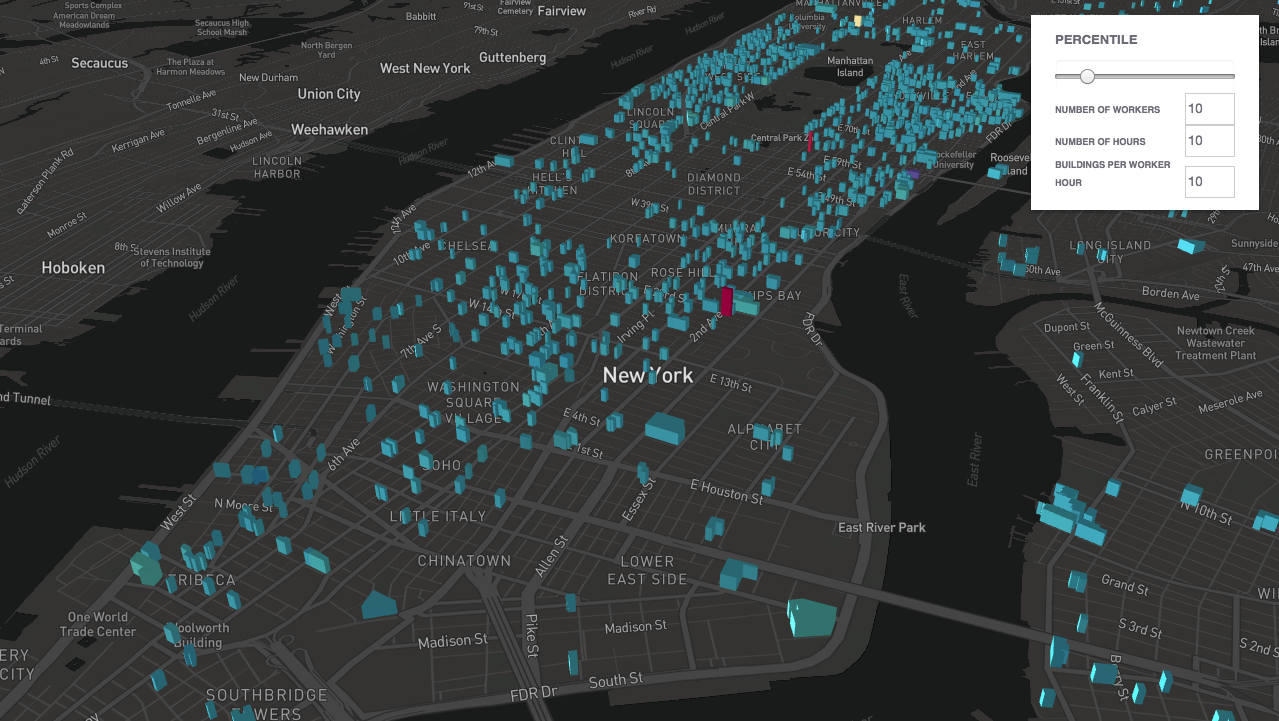
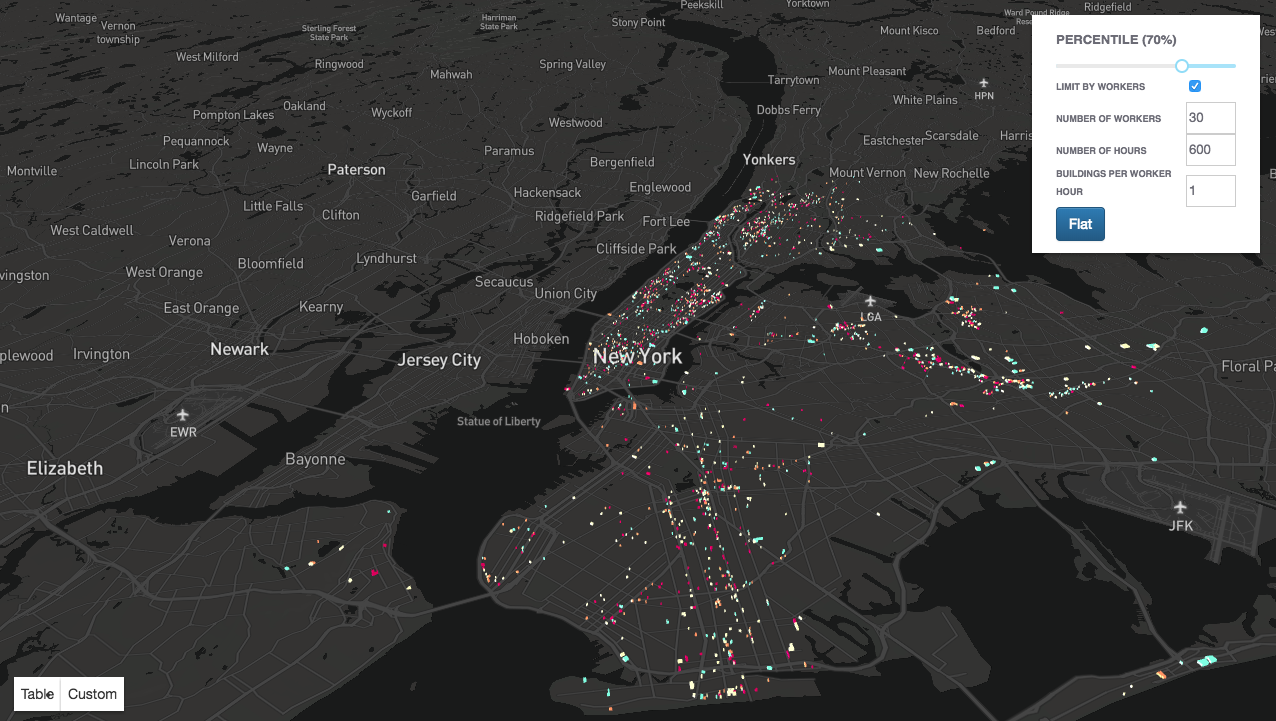
adding vis readme

diff --git a/deck/README.md b/deck/README.md
@@ -1,13 +1,58 @@
-This is a minimal standalone version of the GeoJsonLayer example
-on [deck.gl](http://deck.gl) website.
+# Energy Benchmarking Operational Tool
+**Authors**: Ben Steers, Te Du, Ian Xiao
 
-### Usage
-Copy the content of this folder to your project. Run
-```
+This tool was created as part of a final project for Civic Analytics and Intelligence at NYU CUSP, under the advisement of Constantine Kontokosta. It aims to provide a practical outlet for the visualization and use of LL84 data and the benchmarking results from our final project.
+
+The prototype tool aims to serve the needs of two populations:
+* Operations managers
+* Building owners
+
+![Screenshot of Dashboard](dashboard.png)
+
+## Operational Management
+Operational managers are often tasked with identifying the worst performing buildings in terms of energy usage efficiency, whether it be electricity, water, or fuel usage. Their criteria for selection is not fixed, so to accomodate varying use cases, a slider is provided that allows users to filter the displayed buildings by only showing the top percentile of worst performing buildings. So for example, if the slider is set to a value of 80%, it will only show the top 20% of buildings based on their EER score. The other constraint that operational managers may have is based on resource management. They can only address a certain number of buildings based on the number of workers they have, the amount of time they are looking over, and the rate at which their workers can inspect a single building. To accomodate this, filters are provided that allow building owners to specify the number of workers, the number of hours, and the number of buildings per worker per hour.
+
+![Screenshot of Operations Control Panel](control-panel.png)
+
+## Building Owners
+Building owners may want to know how their building performs compared to their peers. The building owners who want to have this information are more likely to actually take action in improving their building efficiency so it is important to provide them with the support to become more informed building owners. The tool allows for building owners to input their building's characteristics and perform collaborative filtering to identify their optimal peer group and evaluate their performance in relation to that peer group.
+
+![Screenshot of Dashboard](custom-building-form.png)
+
+## Technical Information
+The tool was built using `deck.gl`, a WebGL framework built upon Mapbox GL and React.js for visualizing large datasets in a 3D mapping environment. The codebase is written in Javascript and works primarily on the front-end. A mini Flask web server is used to do benchmarking for custom building inputs using the collaborative filtering method. 
+
+To run for the first time:
+```bash
+git clone https://github.com/td928/CAUI_team1_Final_Project.git
+cd CAUI_team1_Final_Project
 npm install
 npm start
 ```
 
-### Data format
-Sample data is stored in [deck.gl Example Data](https://github.com/uber-common/deck.gl-data/tree/master/examples/geojson). To use your own data, checkout
-the [documentation of GeoJsonLayer](../../docs/layers/geojson-layer.md).
+For subsequent runs, just do:
+```bash
+npm start
+```
+
+To enable custom building benchmarking functionality, open another terminal window, go to the same directory, and run:
+```bash
+export FLASK_APP=app.py
+python -m flask run
+```
+
+
+## Future Improvements
+* Add CSV export.
+* Add dynamic colorbar. Currently the colorbar is meant to show relative efficiency, however the tool would benefit from having a quantitative reference to efficiency.
+* Add building highlighting to only show buildings in the selected building peer group. Also add highlighting for displaying a custom building's peer group.
+* Add toggles to switch efficiency scales to be based on water or natural gas usage.
+* Add geocoded search based on address, BBL, etc.
+* Add filters for building attributes.
+* Extend modelling to other building types besides multi-family buildings and display them accordingly.
+* Add smooth viewport transitions (not supported in the current release of deck.gl or react-map-gl, but is available in the dev release).
+* Add building zoom to/highlighting for table row hover/click.
+* In histograms, draw a marker signifying the referenced building's relative efficiency compared to its peer group distribution.
+* Automatically generate benchmarking results annually as new LL84 results are posted.
+* Once more information is available about building systems, recommendations for how to improve building efficiency could be provided in a personalized manner.
+
